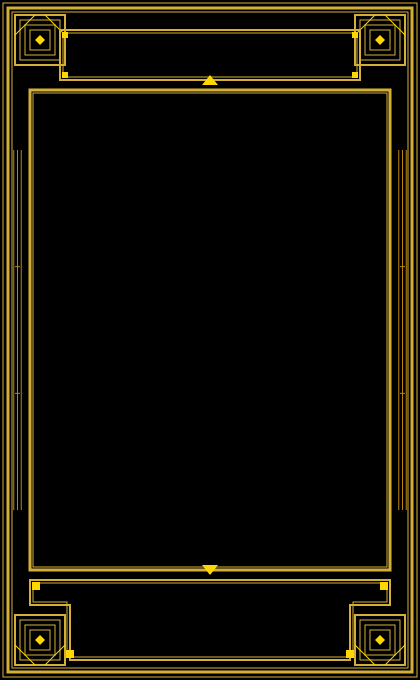
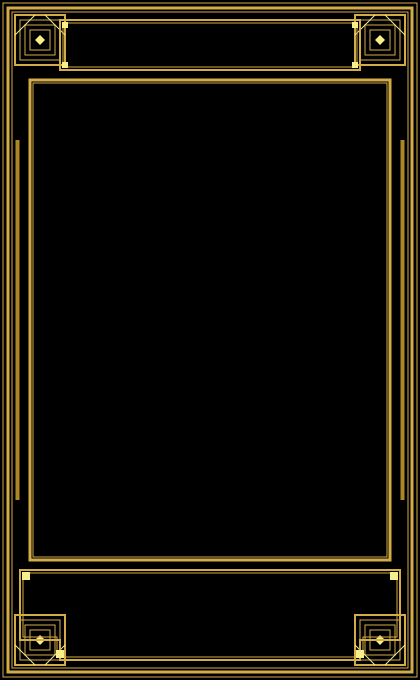
feat: Enhance sophisticated art deco template with custom design
Major improvements to sophisticated-art-deco-template.png:

Layout Adjustments:
- Move header rectangle up (y: 30 → 20) for better top alignment
- Move image area up (y: 90 → 80) closer to header
- Reposition footer (y: 580 → 570) with expanded dimensions
- Adjust footer step height (25 → 70) for better proportions

Visual Enhancements:
- Remove distracting triangular accents above/below image
- Simplify side decorations: 3 lines → 1 solid thick line (4px)
- Custom gradient color palette: #AE8625, #F7EF8A, #D2AC47, #EDC967
- Enhanced footer area (380x90) with better spacing

Design Philosophy:
- Cleaner, more sophisticated appearance
- Better visual hierarchy and spacing
- Custom gold gradient for premium feel
- Maintains art deco elegance with modern refinements

Perfect for SnapMagic AWS events with professional aesthetic.

diff --git a/sophisticated-template.js b/sophisticated-template.js
@@ -18,15 +18,15 @@ function createSophisticatedArtDecoTemplate() {
     const canvas = createCanvas(WIDTH, HEIGHT);
     const ctx = canvas.getContext('2d');
     
-    // Sophisticated Art Deco color palette
+    // Custom Gradient Gold color palette
     const COLORS = {
         background: '#000000',           // Deep black
-        goldPrimary: '#D4AF37',         // Rich gold
-        goldSecondary: '#B8860B',       // Darker gold
-        goldAccent: '#FFD700',          // Bright gold highlights
-        goldMuted: '#CD853F',           // Muted gold for details
+        goldPrimary: '#D2AC47',         // Rich golden brown (primary borders)
+        goldSecondary: '#AE8625',       // Deep antique gold (secondary elements)
+        goldAccent: '#F7EF8A',          // Light golden yellow (highlights)
+        goldMuted: '#EDC967',           // Warm golden yellow (accents)
         champagne: '#F7E7CE',           // Light champagne
-        bronze: '#CD7F32'               // Bronze accents
+        bronze: '#AE8625'               // Deep antique gold for bronze elements
     };
     
     // Layout areas
@@ -34,23 +34,23 @@ function createSophisticatedArtDecoTemplate() {
         // Main image area - centered and proportioned
         imageArea: {
             x: 30,
-            y: 90,
+            y: 80,
             width: 360,
             height: 480
         },
         // Header area for logos/branding
         headerArea: {
             x: 60,
-            y: 30,
+            y: 20,
             width: 300,
             height: 50
         },
         // Footer area for AWS branding
         footerArea: {
-            x: 30,
-            y: 580,
-            width: 360,
-            height: 80
+            x: 20,
+            y: 570,
+            width: 380,
+            height: 90
         }
     };
     
@@ -158,26 +158,13 @@ function createSophisticatedArtDecoTemplate() {
     // Side decorative elements
     function drawSideDecoration(x, y, width, height) {
         ctx.strokeStyle = COLORS.goldSecondary;
-        ctx.lineWidth = 1;
+        ctx.lineWidth = 4;
         
-        // Vertical decorative lines
-        for (let i = 0; i < 3; i++) {
-            const lineX = x + (width / 4) * (i + 1);
-            ctx.beginPath();
-            ctx.moveTo(lineX, y + 10);
-            ctx.lineTo(lineX, y + height - 10);
-            ctx.stroke();
-        }
-        
-        // Horizontal accent lines
+        // Single solid vertical line in center
+        const lineX = x + (width / 2);
         ctx.beginPath();
-        ctx.moveTo(x + 5, y + height / 3);
-        ctx.lineTo(x + width - 5, y + height / 3);
-        ctx.stroke();
-        
-        ctx.beginPath();
-        ctx.moveTo(x + 5, y + (height * 2) / 3);
-        ctx.lineTo(x + width - 5, y + (height * 2) / 3);
+        ctx.moveTo(lineX, y + 10);
+        ctx.lineTo(lineX, y + height - 10);
         ctx.stroke();
     }
     
@@ -193,7 +180,7 @@ function createSophisticatedArtDecoTemplate() {
     ctx.lineWidth = 2;
     
     const stepWidth = 40;
-    const stepHeight = 25;
+    const stepHeight = 70;
     
     // Draw stepped footer shape
     ctx.beginPath();
@@ -233,23 +220,8 @@ function createSophisticatedArtDecoTemplate() {
     ctx.fillRect(footer.x + stepWidth - 4, footer.y + footer.height - 10, 8, 8);
     ctx.fillRect(footer.x + footer.width - stepWidth - 4, footer.y + footer.height - 10, 8, 8);
     
-    // === STEP 7: CENTRAL DECORATIVE ACCENTS ===
-    // Top center accent
-    ctx.fillStyle = COLORS.goldAccent;
-    ctx.beginPath();
-    ctx.moveTo(WIDTH / 2, imgArea.y - 15);
-    ctx.lineTo(WIDTH / 2 - 8, imgArea.y - 5);
-    ctx.lineTo(WIDTH / 2 + 8, imgArea.y - 5);
-    ctx.closePath();
-    ctx.fill();
-    
-    // Bottom center accent
-    ctx.beginPath();
-    ctx.moveTo(WIDTH / 2, footer.y - 5);
-    ctx.lineTo(WIDTH / 2 - 8, footer.y - 15);
-    ctx.lineTo(WIDTH / 2 + 8, footer.y - 15);
-    ctx.closePath();
-    ctx.fill();
+    // === STEP 7: REMOVED TRIANGULAR ACCENTS ===
+    // Triangular accents removed for cleaner design
     
     // === SAVE TEMPLATE ===
     const buffer = canvas.toBuffer('image/png');
